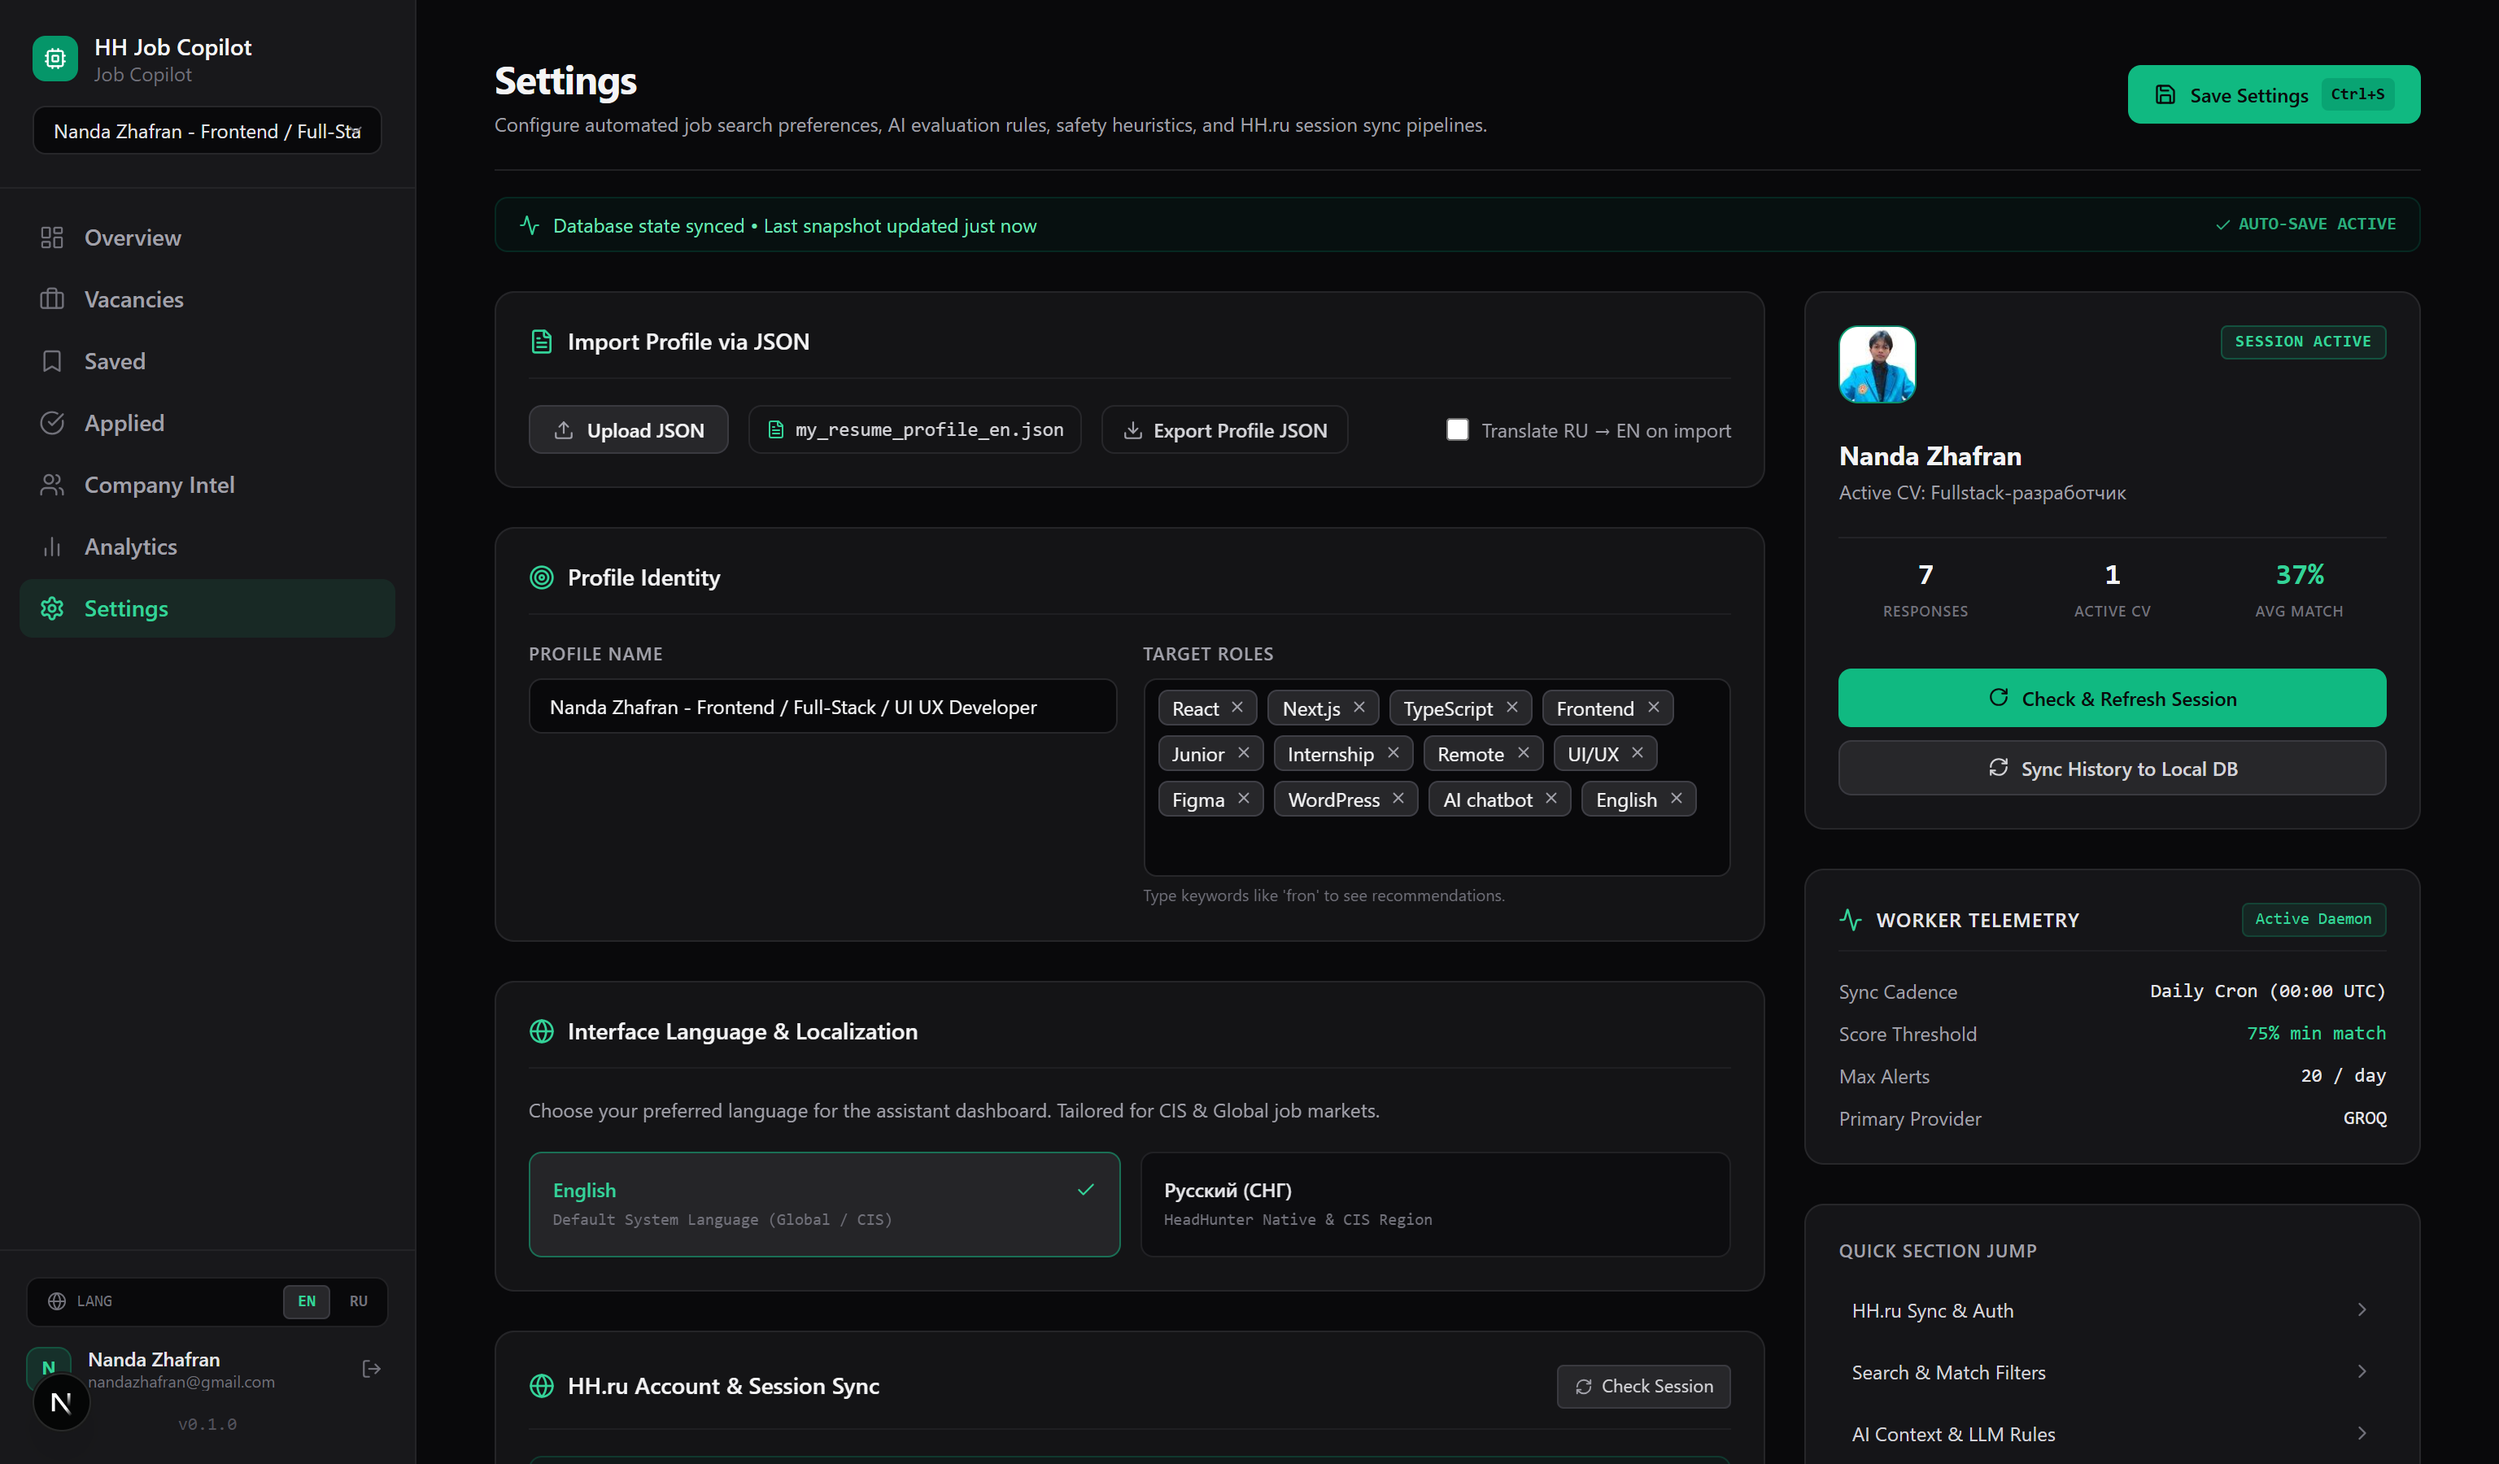
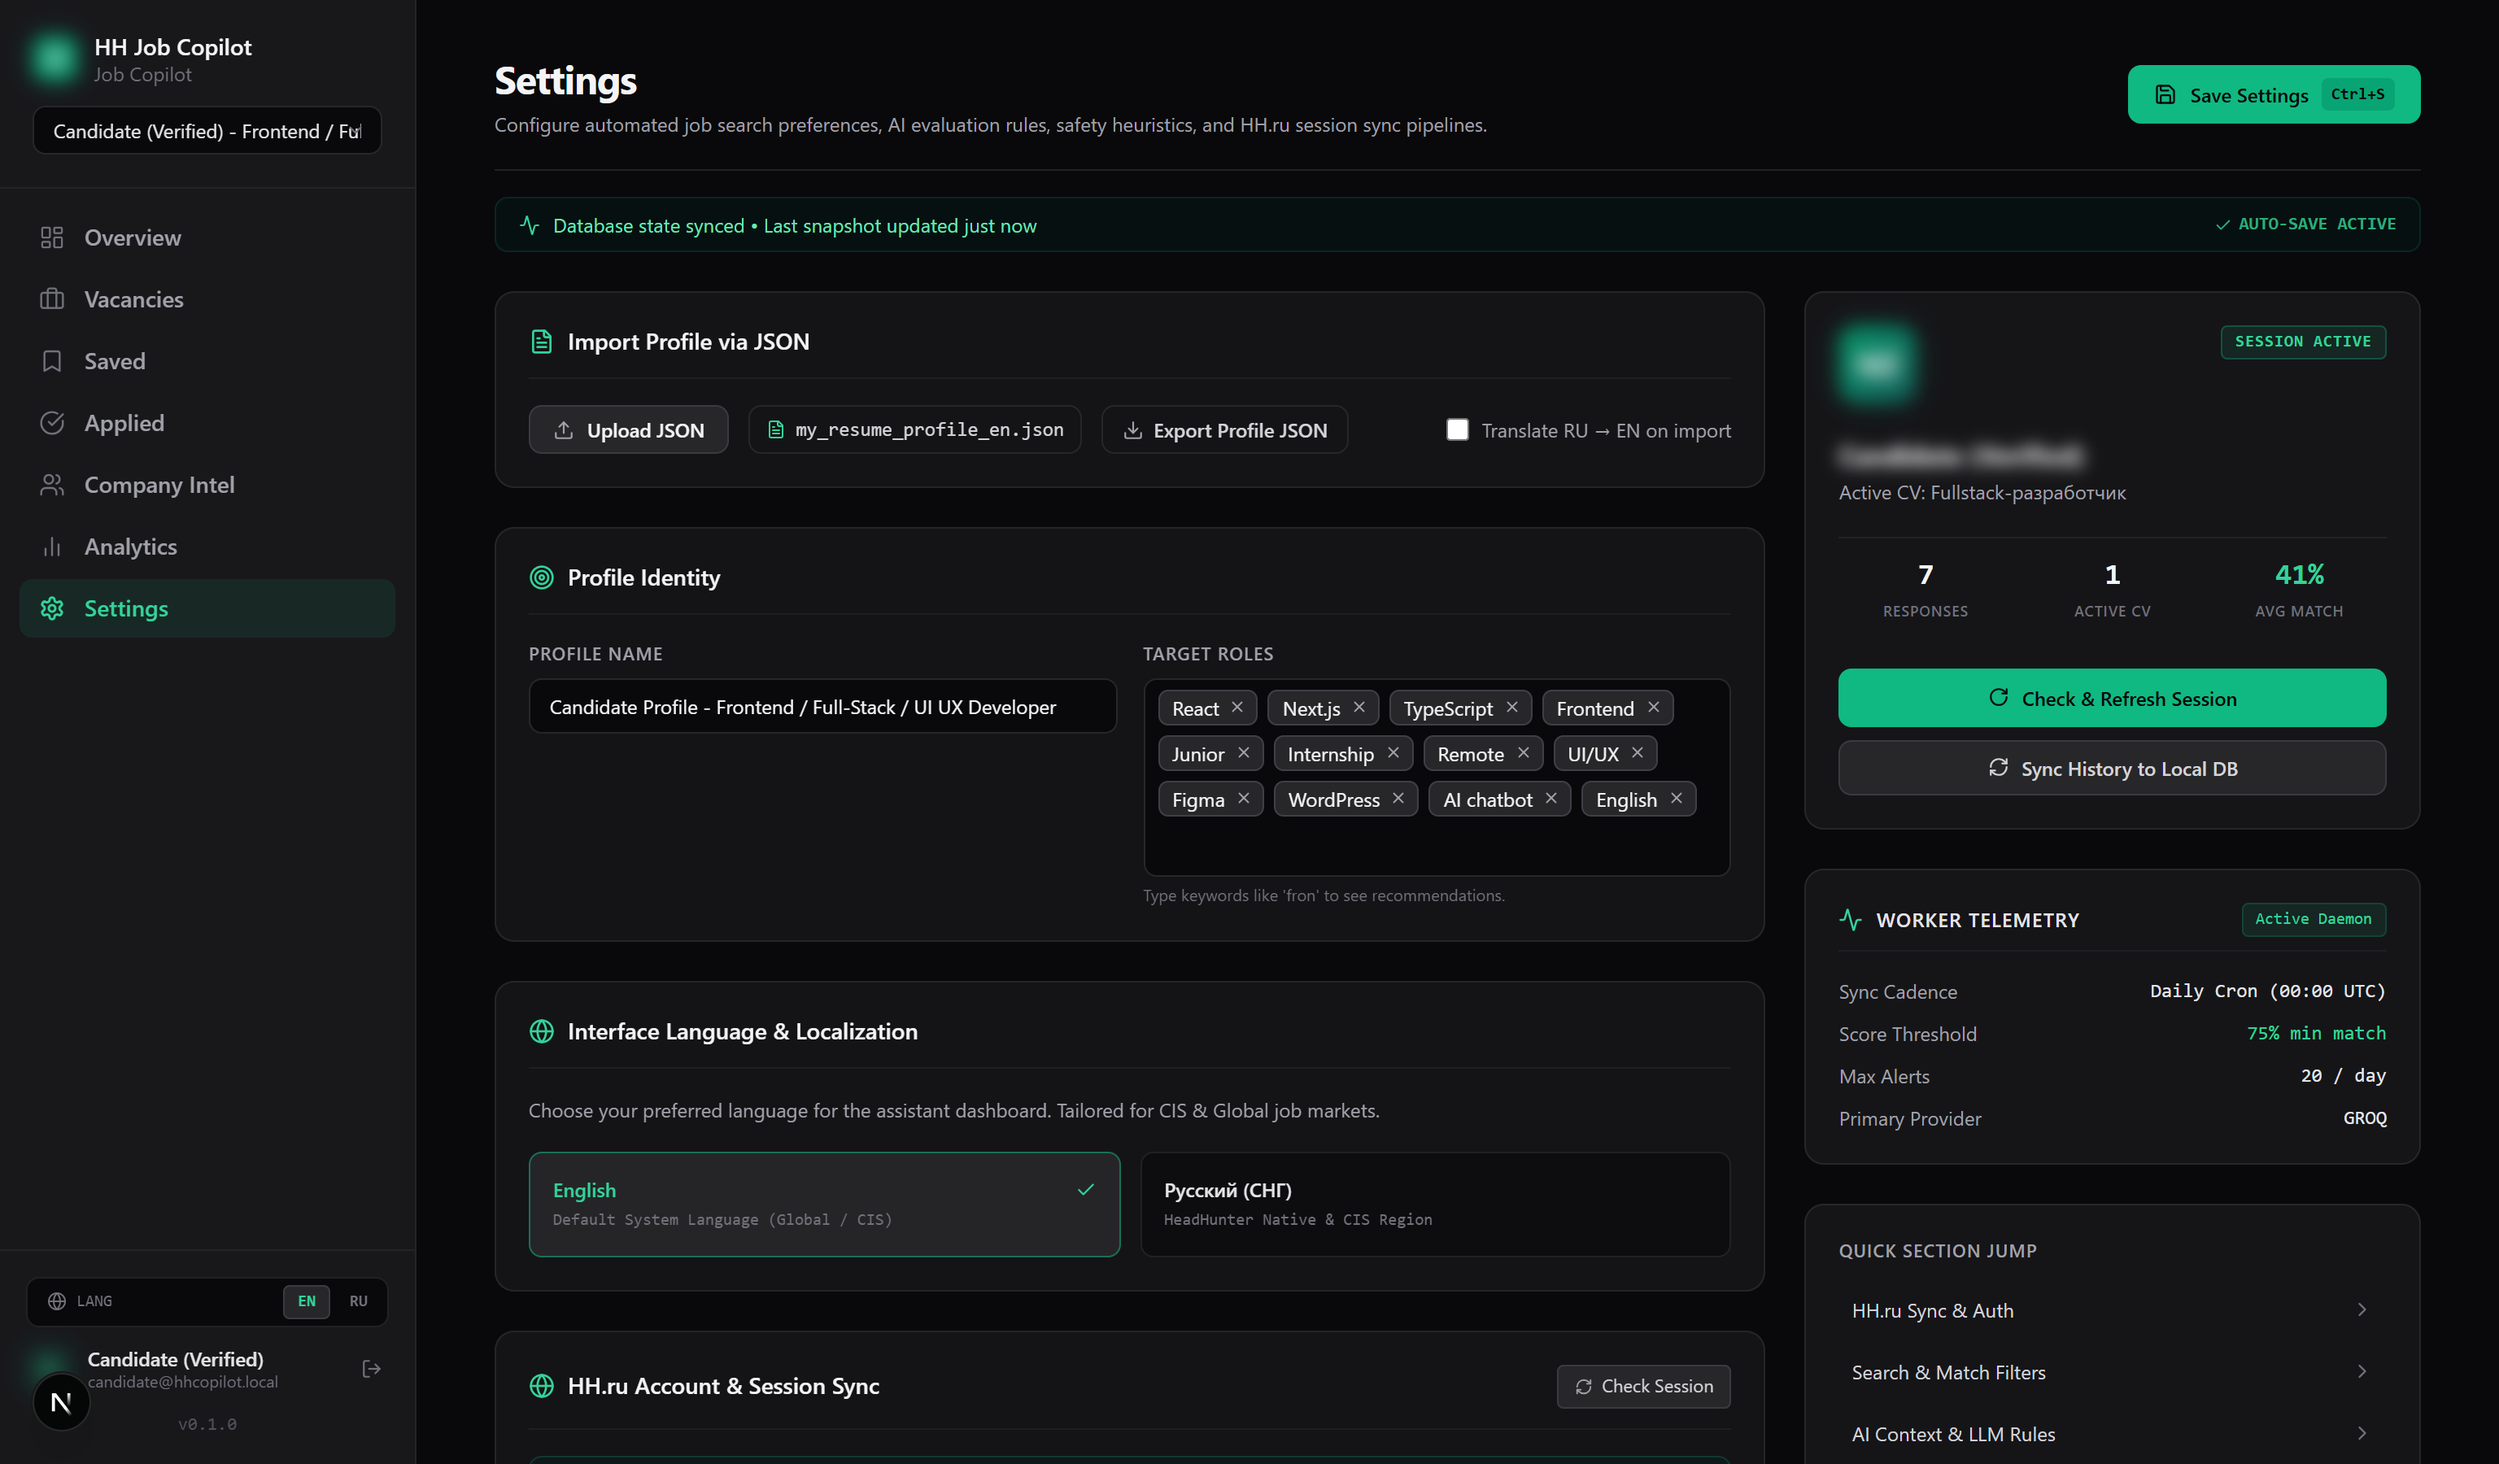
chore: blur personal identities in screenshots and add Find Recruiter dossier preview

diff --git a/README.coming-soon.md b/README.coming-soon.md
@@ -53,6 +53,10 @@ Track application attrition across the conversion funnel, visualize compatibilit
 ### 4. Recruiter Intelligence & Company OSINT
 Bypass the HR black hole. Automatically uncover hiring managers and tech leads via domain OSINT, with tailored cold-outreach drafting adapted to your portfolio.
 
+<div align="center">
+  <img src="screenshots/06_find_recruiter_dossier.png" alt="Recruiter Intelligence Dossier" width="90%" />
+</div>
+
 ---
 
 ### 5. Zero-Setup Local Execution & BYOK
@@ -74,9 +78,15 @@ Bypass the HR black hole. Automatically uncover hiring managers and tech leads v
 
 ---
 
+> **⚠ Disclaimer:**
+> HH Job Copilot is an independent open-source assistive tool created for personal job search automation and telemetry. It is not affiliated, endorsed, certified, or sponsored by HeadHunter LLC (hh.ru). All trademarks belong to their respective owners.
+
+---
+
 <div align="center">
 
 *Stay tuned! Follow the repository for the launch.*  
 **Created with ❤ for developers exhausted by noisy job boards.**
 
 </div>
+
